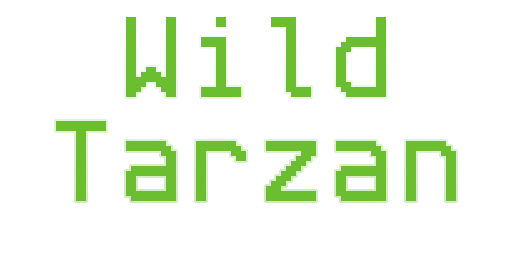
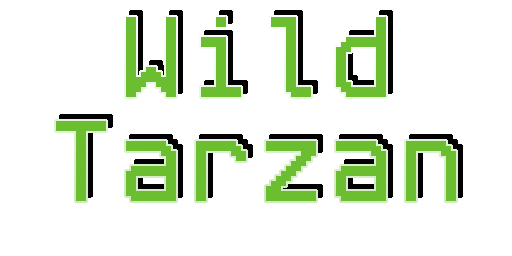
タイトルの微調整

diff --git a/main.cpp b/main.cpp
@@ -656,7 +656,7 @@ int WINAPI WinMain(HINSTANCE, HINSTANCE, LPSTR, int) {
 
 			Novice::DrawSprite(0, 0, BGTITLE, 1, 1, 0, 0x888888FF);
 
-			Novice::DrawSprite(titlePosX, titlePosY, TITLETEXT, 1, 1, 0.0f, 0xFFFFFF);
+			Novice::DrawSprite(titlePosX, titlePosY, TITLETEXT, 1, 1, 0.0f, 0xFFFFFFFF);
 
 			if (drawTitleTimer < 50) {
 				Novice::DrawSprite(640 - 256, 600, SPACESTART, 1, 1, 0, 0xFFFFFFFF);
